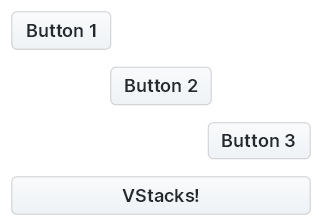
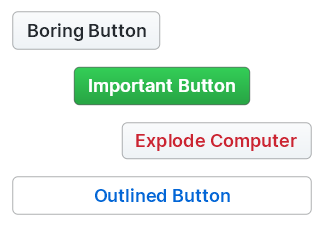
update showcase

diff --git a/examples/showcase/main.rs b/examples/showcase/main.rs
@@ -37,10 +37,42 @@ impl Showcase {
     fn new(theme: &dyn draw::Theme, update_aux: &mut app::UAux, gfx_aux: &mut app::GAux) -> Self {
         let mut v_stack =
             ui::VStack::new(Rect::new(Point::new(50.0, 50.0), Size::new(200.0, 200.0)));
-        let mut button_1 = ui::simple_button("Button 1".to_string(), theme, update_aux, gfx_aux);
-        let mut button_2 = ui::simple_button("Button 2".to_string(), theme, update_aux, gfx_aux);
-        let mut button_3 = ui::simple_button("Button 3".to_string(), theme, update_aux, gfx_aux);
-        let mut button_4 = ui::simple_button("VStacks!".to_string(), theme, update_aux, gfx_aux);
+
+        let mut button_1 = ui::simple_button(
+            "Boring Button".to_string(),
+            theme,
+            None,
+            None,
+            update_aux,
+            gfx_aux,
+        );
+
+        let mut button_2 = ui::simple_button(
+            "Important Button".to_string(),
+            theme,
+            Some(draw::state::ButtonType::Primary),
+            None,
+            update_aux,
+            gfx_aux,
+        );
+
+        let mut button_3 = ui::simple_button(
+            "Explode Computer".to_string(),
+            theme,
+            Some(draw::state::ButtonType::Danger),
+            None,
+            update_aux,
+            gfx_aux,
+        );
+
+        let mut button_4 = ui::simple_button(
+            "Outlined Button".to_string(),
+            theme,
+            Some(draw::state::ButtonType::Outline),
+            None,
+            update_aux,
+            gfx_aux,
+        );
 
         let v_stack_data = ui::VStackData {
             top_margin: 10.0,

diff --git a/src/ui/mod.rs b/src/ui/mod.rs
@@ -92,6 +92,8 @@ impl Default for Align {
 pub fn simple_button<U: base::UpdateAuxiliary, G: base::GraphicalAuxiliary>(
     text: String,
     theme: &dyn draw::Theme,
+    button_type: Option<draw::state::ButtonType>,
+    disabled: Option<bool>,
     update_aux: &mut U,
     gfx_aux: &mut G,
 ) -> Button<U, G> {
@@ -99,8 +101,8 @@ pub fn simple_button<U: base::UpdateAuxiliary, G: base::GraphicalAuxiliary>(
         display::DisplayText::Simple(text),
         display::Point::default(),
         None,
-        draw::state::ButtonType::Normal,
-        false,
+        button_type.unwrap_or(draw::state::ButtonType::Normal),
+        disabled.unwrap_or(false),
         theme,
         update_aux,
         gfx_aux,
